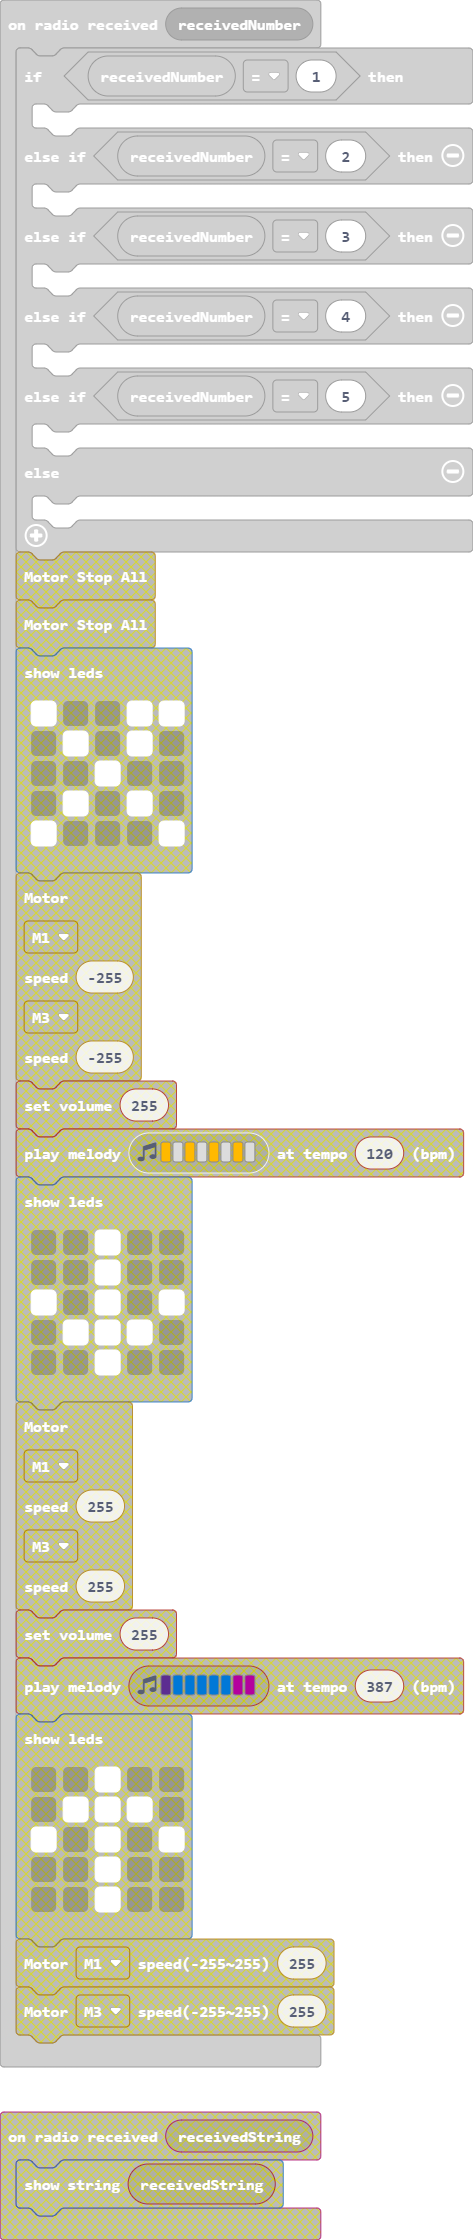
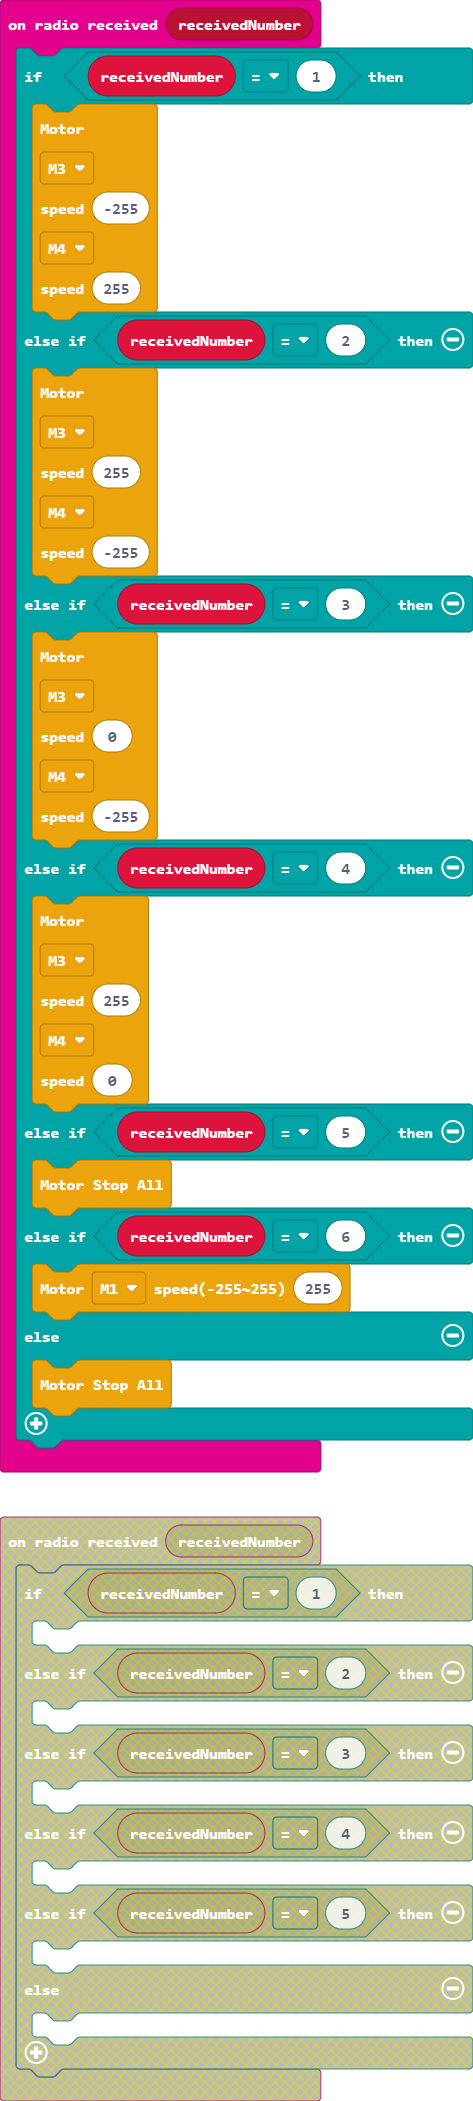
Update main.blocks, main.ts

diff --git a/main.ts b/main.ts
@@ -1,16 +1,38 @@
 radio.onReceivedNumber(function (receivedNumber) {
     if (receivedNumber == 1) {
-    	
+        SuperBit.MotorRunDual(
+        SuperBit.enMotors.M3,
+        -255,
+        SuperBit.enMotors.M4,
+        255
+        )
     } else if (receivedNumber == 2) {
-    	
+        SuperBit.MotorRunDual(
+        SuperBit.enMotors.M3,
+        255,
+        SuperBit.enMotors.M4,
+        -255
+        )
     } else if (receivedNumber == 3) {
-    	
+        SuperBit.MotorRunDual(
+        SuperBit.enMotors.M3,
+        0,
+        SuperBit.enMotors.M4,
+        -255
+        )
     } else if (receivedNumber == 4) {
-    	
+        SuperBit.MotorRunDual(
+        SuperBit.enMotors.M3,
+        255,
+        SuperBit.enMotors.M4,
+        0
+        )
     } else if (receivedNumber == 5) {
-    	
+        SuperBit.MotorStopAll()
+    } else if (receivedNumber == 6) {
+        SuperBit.MotorRun(SuperBit.enMotors.M1, 255)
     } else {
-    	
+        SuperBit.MotorStopAll()
     }
 })
 radio.setGroup(10)
